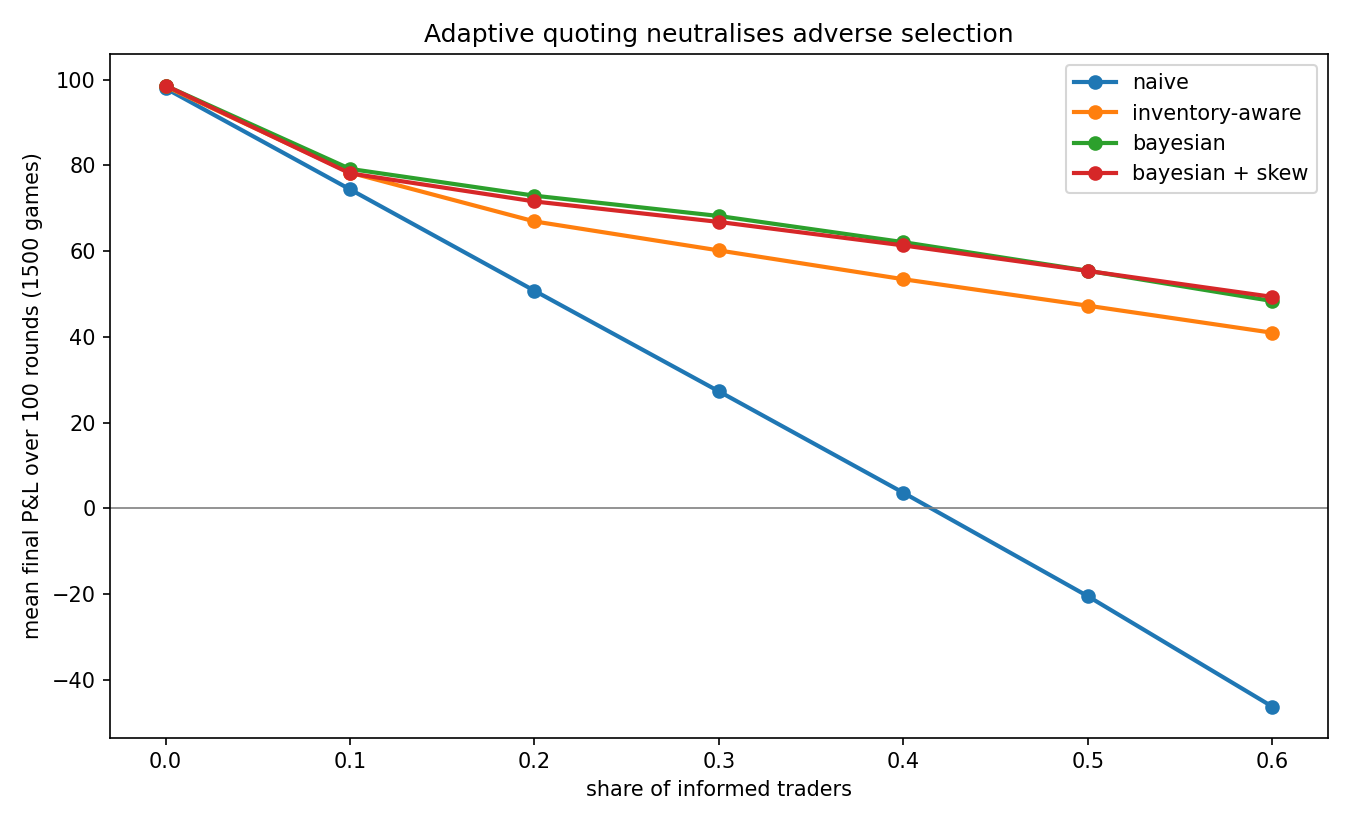
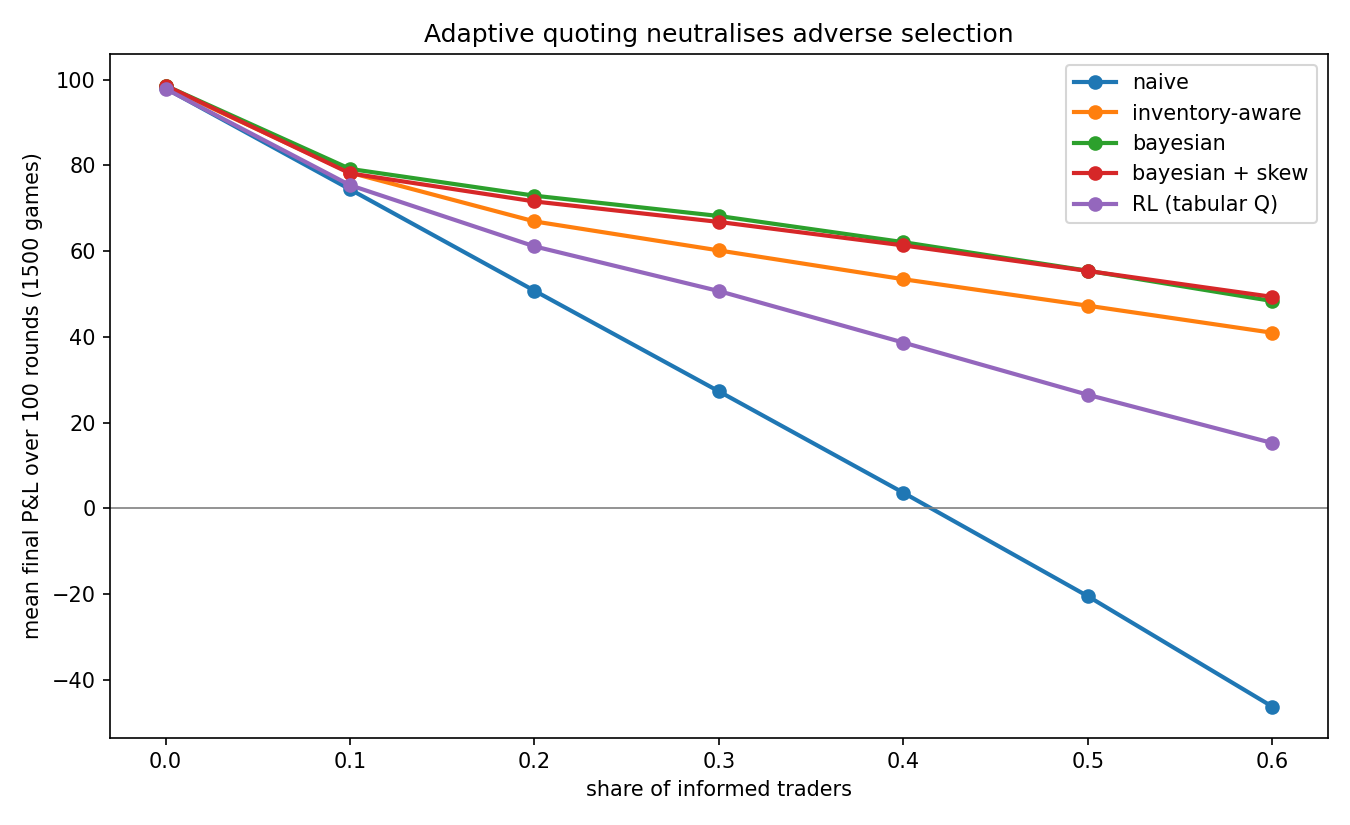
RL maker enters the tournament: frozen Q-policy plotted against naive, inventory-aware, and Bayesian makers

diff --git a/src/rl_maker.py b/src/rl_maker.py
@@ -1,0 +1,56 @@
+"""A frozen Q-learning policy wrapped as a tournament MarketMaker.
+
+The adapter mirrors the environment's feature extraction: it tracks
+flow imbalance, its own quote centre, and the round clock, rebuilds
+the discretised observation each round, and takes the greedy action
+from a trained Q-table. No learning happens at tournament time.
+"""
+
+from __future__ import annotations
+
+import numpy as np
+
+from .market_game import PRIOR_MEAN, MarketMaker, Trade
+from .rl_env import (
+    CENTRE_EDGES,
+    CENTRE_MOVES,
+    IMBALANCE_EDGES,
+    INVENTORY_EDGES,
+    TIME_EDGES,
+)
+
+
+class RLMarketMaker(MarketMaker):
+    """Quotes according to a trained (frozen) Q-table."""
+
+    def __init__(self, q_table: np.ndarray, n_rounds: int = 100,
+                 half_spread: float = 1.0,
+                 rng: np.random.Generator | None = None) -> None:
+        super().__init__()
+        self.q = q_table
+        self.n_rounds = n_rounds
+        self.half_spread = half_spread
+        self.rng = rng or np.random.default_rng(0)
+        self._centre = PRIOR_MEAN
+        self._imbalance = 0
+        self._t = 0
+        self.name = "RL (tabular Q)"
+
+    def _observation(self) -> tuple[int, int, int, int]:
+        imb = int(np.digitize(self._imbalance, IMBALANCE_EDGES))
+        cen = int(np.digitize(self._centre - PRIOR_MEAN, CENTRE_EDGES))
+        inv = int(np.digitize(self.inventory, INVENTORY_EDGES))
+        tim = int(np.digitize(self._t / self.n_rounds, TIME_EDGES))
+        return (imb, cen, inv, tim)
+
+    def quote(self, round_idx: int) -> tuple[float, float]:
+        values = self.q[self._observation()]
+        best = np.flatnonzero(values == values.max())
+        action = int(self.rng.choice(best))
+        self._centre += CENTRE_MOVES[action]
+        self._t += 1
+        return self._centre - self.half_spread, self._centre + self.half_spread
+
+    def on_trade(self, trade: Trade) -> None:
+        super().on_trade(trade)
+        self._imbalance += trade.side

diff --git a/tests/test_rl_maker.py b/tests/test_rl_maker.py
@@ -1,0 +1,29 @@
+"""Unit tests for src.rl_maker -- run with `python -m pytest`."""
+
+import numpy as np
+import pytest
+
+from src.market_game import tournament
+from src.qlearning import train
+from src.rl_env import N_BINS
+from src.rl_maker import RLMarketMaker
+
+
+def test_zero_table_holds_still_or_moves_randomly_but_quotes_validly():
+    q = np.zeros(N_BINS + (5,))
+    mm = RLMarketMaker(q, rng=np.random.default_rng(0))
+    for t in range(50):
+        bid, ask = mm.quote(t)
+        assert ask - bid == pytest.approx(2.0)
+
+
+def test_trained_table_beats_naive_in_tournament():
+    """Wrapped frozen policy must reproduce (approximately) its
+    env-side evaluation when run through the tournament machinery."""
+    agent, _ = train(n_episodes=4000, eval_every=4000, eval_games=100,
+                     seed=0, verbose=False)
+    rng = np.random.default_rng(99)
+    pnls = tournament(lambda: RLMarketMaker(agent.q),
+                      n_games=300, n_rounds=100,
+                      informed_share=0.3, rng=rng)
+    assert pnls.mean() > 35   # naive is ~28 here; trained agent well above

diff --git a/scripts/run_tournament.py b/scripts/run_tournament.py
@@ -26,6 +26,7 @@ import numpy as np
 sys.path.insert(0, str(pathlib.Path(__file__).resolve().parents[1]))
 
 from src.market_game import NaiveMarketMaker, draw_true_value, play_game, tournament
+from src.rl_maker import RLMarketMaker
 from src.strategies import BayesianMarketMaker, InventoryAwareMarketMaker
 
 SEED = 42
@@ -42,6 +43,11 @@ STRATEGIES = [
     ("bayesian", lambda: BayesianMarketMaker(1.0)),
     ("bayesian + skew", lambda: BayesianMarketMaker(1.0, inventory_skew=0.1)),
 ]
+
+_QTABLE_PATH = pathlib.Path(__file__).resolve().parents[1] / "models" / "qtable.npy"
+if _QTABLE_PATH.exists():
+    _Q = np.load(_QTABLE_PATH)
+    STRATEGIES.append(("RL (tabular Q)", lambda: RLMarketMaker(_Q)))
 
 
 def convergence_demo() -> None: